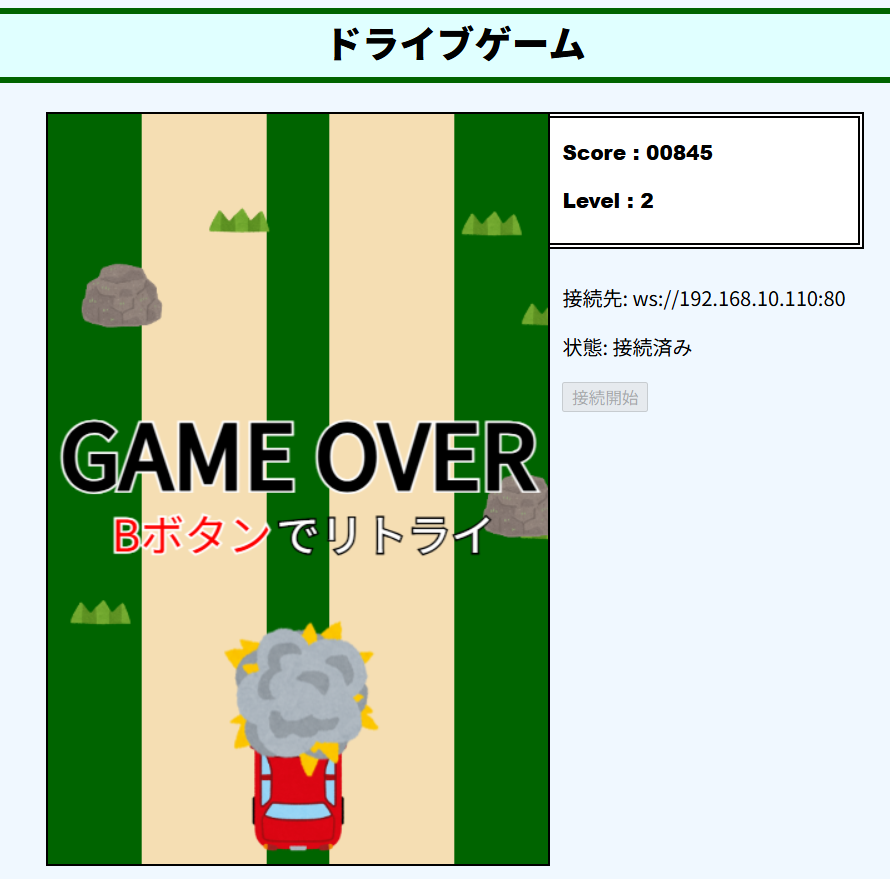
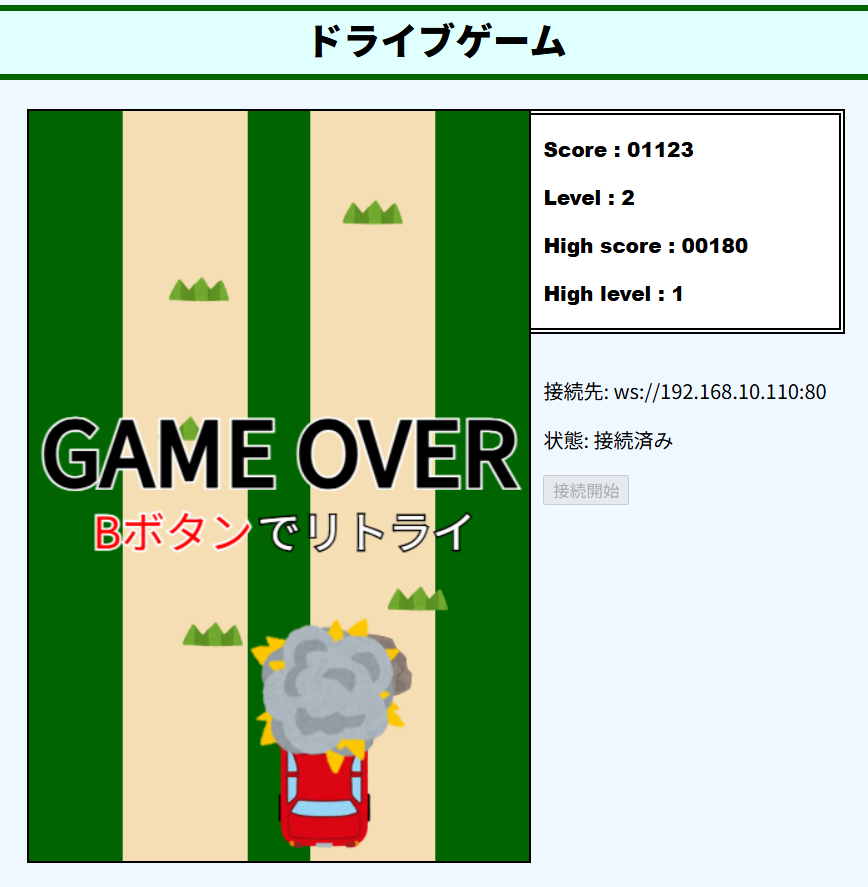
仕様更新に伴うREADMEの修正

Changed region(s): [[0.0311, 0.1229, 0.9954, 1.0], [0.0, 0.0, 1.0, 0.0922], [0.4044, 0.215, 0.4666, 0.2765]]

diff --git a/README.md b/README.md
@@ -2,16 +2,18 @@
 
 ## 概要
 
-Arduino UNO R4 Wifiを用いたwebsocket通信とそれによるデータ通信でプレイ可能なブラウザゲーム<br>
+Arduino UNO R4 Wifiを用いたwebsocket通信とクライアントサーバーの構築及びそれによるデータ通信でプレイ可能なブラウザゲーム<br>
+クライアントサーバーが立つと接続のためのURLがOLEDに表示されるので、それをブラウザに入力しアクセスする<br>
 通信でコントローラーの操作情報を送り、赤い車を操作して岩を躱しつづけた時間でスコアが決定する<br>
-HTMLはGoogle Chromeでのみ動作確認済<br>
+HTMLはGoogle Chromeでのみ動作確認済<br><br>
 実際にR4Wifiの中で使われているソースファイルは全て```gameproject3```フォルダ内に入っており、HTML、CSS、JSの内容を分かりやすくそれぞれのファイルにまとめたものが```data```フォルダに入っている
 
 <br>
 <br>
 
 ![GitHub](./ReadmeImages/RepositoryQR.png)<br>
-**GitHubリポジトリのQRコード**
+**プロジェクトのGitHubリポジトリのQRコード**
+https://github.com/fanofJOTARO/2025TrainingGraduationProject
 
 ## 仕様
 
@@ -38,35 +40,37 @@ HTMLはGoogle Chromeでのみ動作確認済<br>
 ### ソフトウェア
 
 ざっくりしたプログラムフローチャート
+OLEDに立てられたアクセス用サーバー
 
 ```mermaid
 flowchart TD;
     Wifi接続-->|接続エラー|停止
-    Wifi接続-->websocketサーバー開始
-    websocketサーバー開始-->|クライアント側からの接続リクエスト|クライアントと接続
+    Wifi接続-->websocketサーバーとHTMLクライアント開始
+    websocketサーバーとHTMLクライアント開始-->要求が来るまで待機
+    要求が来るまで待機-->|ユーザーのクライアントへのアクセス要求|クライアントと接続
+    クライアントと接続-->HTML情報をユーザー側に送信-->切断
+    要求が来るまで待機-->|クライアント側からのwebsocket接続リクエスト|websocketサーバーとクライアントを接続
     クライアントと接続-->|通信エラー|切断
-    クライアントと接続-->コントローラーの入力受付
+    websocketサーバーとクライアントを接続-->|通信エラー|切断
+    websocketサーバーとクライアントを接続-->コントローラーの入力受付
     コントローラーの入力受付-->|入力データ|クライアントにデータ送信
     クライアントにデータ送信-->コントローラーの入力受付
-    クライアントにデータ送信-->|クライアント側からの切断|切断
-    切断-->|クライアント側からの接続リクエスト|クライアントと接続
+    クライアントにデータ送信-->|クライアント側からの切断or通信エラー|切断
+    切断-->要求が来るまで待機
 ```
 
 ### ゲーム
 
 ![サイトのスクリーンショット](./ReadmeImages/title.png)<br>
 サイトの最初の画面
-
 <br>
 
 ![プレイ画面](./ReadmeImages/play.png)<br>
 実際にプレイしている画面
-
 <br>
 
 ![alt text](./ReadmeImages/gameover.png)<br>
 ゲームオーバー画面
-
 <br>
 
 場面遷移図
@@ -92,4 +96,5 @@ flowchart LR;
 * ```Aボタン```（R4Wifiの5番PINに接続されたボタン）を押しながらジョイスティックを倒すことで移動速度が一時的に向上する
 * 草は当たっても問題ないが、岩は当たると車が破壊されゲームオーバーとなる
 * ゲームオーバー後は```Bボタン```（R4Wifiの4番PINに接続されたボタン）を押すことでリトライが可能
+* リトライするとき現在スコアが記録されているハイスコアより高かった時にハイスコアが更新される。
 * サイトのリロードはArduino側のリセットボタン
